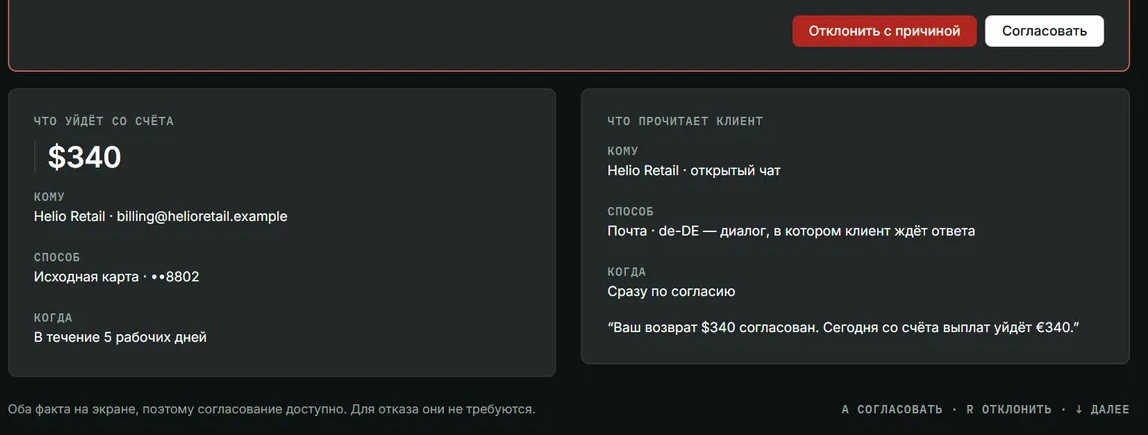
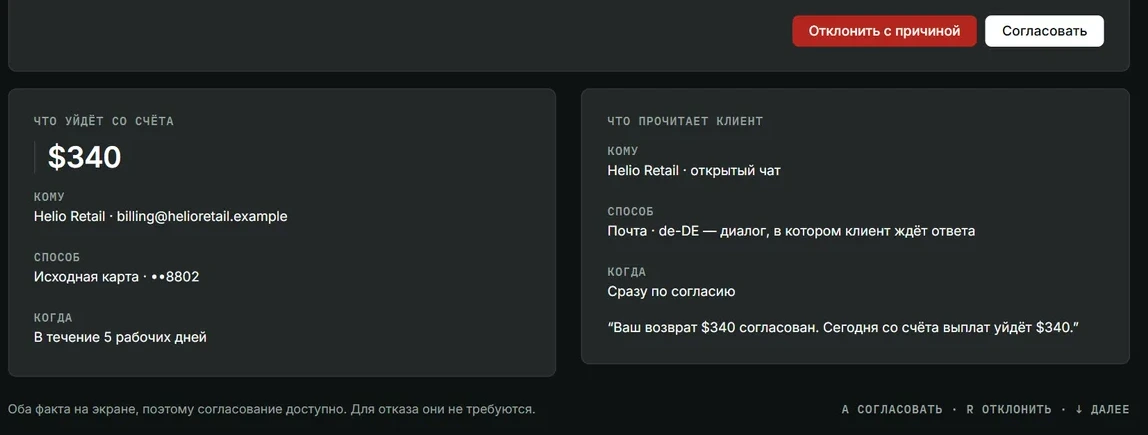
feat(cases): Pawly as whole phones, Vet queue moment, previews on phones
- Pawly cover and case hero: one walk in three whole phones (status bar,
  screen, home bar) instead of a white card without device chrome; a single
  phone below bp-md. Built by scripts/build-secondary-covers.mjs.
- Vet preview: one readable fragment of the day queue instead of two
  shrunken screens.
- More-cases previews are visible on phones, full width above the title.
- Agent Ops hero reshot after the prototype fix: the consequence reads $340,
  no longer €340.

Changed region(s): [[0.0, 0.1494, 0.9756, 0.1793], [0.9756, 0.0, 1.0, 0.1494], [0.8841, 0.7172, 0.9451, 0.777]]

diff --git a/src/copy/case-visuals.ts b/src/copy/case-visuals.ts
@@ -5,6 +5,8 @@ export interface Artwork {
   images: string[];
   /** Phone-width crop of the same product moment; replaces the first image below bp-md. */
   mobile?: string;
+  /** One product moment centred on the canvas, instead of a layered composition. */
+  moment?: boolean;
   alt: string;
   caption?: string;
 }
@@ -60,32 +62,33 @@ const catalog = {
   },
   'vet-clinic': {
     folder: 'case-vet',
-    cover: ['cover/vet-day-queue.webp', 'visit-quick-trace-crop.webp'],
+    cover: ['cover/queue-moment.webp'],
     hero: ['visit-quick-trace-crop.webp'],
     en: {
-      cover: 'Vet Clinic: the veterinarian’s daily queue and a quick visit record.',
+      cover: 'Vet Clinic: today’s visits, with an emergency walk-in at the top of the queue and three records left open.',
       hero: 'Quick visit record: weight, medication and dose, with the draft saved and a short clinical note.',
       caption: 'A short record at the point of care: weight, medication, dose and a note. The full record remains a separate step. Fictional patient data.',
     },
     ru: {
-      cover: 'Ветклиника: очередь врача на день и быстрая запись визита.',
+      cover: 'Ветклиника: визиты на сегодня — экстренный пациент без записи первым в очереди, три записи не закрыты.',
       hero: 'Быстрая запись визита: вес, препарат, доза, сохранённый черновик и короткая заметка врача.',
       caption: 'Короткий след приёма: вес, препарат, доза и заметка. Полная карта остаётся отдельным шагом. Данные пациента вымышлены.',
     },
   },
   pawly: {
     folder: 'case-pawly',
-    cover: ['cover/return-confirmed.webp'],
-    hero: ['handover-photo-review.webp'],
+    cover: ['cover/story.webp'],
+    hero: ['cover/story.webp'],
+    heroMobile: 'cover/story-phone.webp',
     en: {
-      cover: 'Pawly: return confirmed at 14:52, with dated pickup and return photos in one report card.',
-      hero: 'Pawly return photo review: the full selected image remains local until the walker sends it and the demo confirms receipt.',
-      caption: 'A selected photo is not yet a confirmed return. The walker reviews the full image before sending. Local demo on invented data.',
+      cover: 'Pawly, one walk in three screens: the owner sees Baikal out for a walk, the walker checks the drop-off photo, the report confirms the return at 14:52.',
+      hero: 'Pawly, one walk in three screens: the owner sees who has Baikal and when to expect him home; the walker checks the drop-off photo before sending; the report confirms the return at 14:52 with both photos.',
+      caption: 'Before, during and after one walk. A selected photo is not yet a confirmed return: the walker reviews it before sending, and the report counts only what was received. Local demo on invented data.',
     },
     ru: {
-      cover: 'Pawly: возвращение подтверждено в 14:52; фотографии передачи и возвращения с датами в одной карточке отчёта.',
-      hero: 'Проверка фото возвращения в Pawly: полный выбранный кадр остаётся локальным до отправки и подтверждения в демо.',
-      caption: 'Выбранное фото ещё не подтверждает возвращение. Исполнитель проверяет полный кадр до отправки. Локальное демо на вымышленных данных.',
+      cover: 'Pawly, одна прогулка в трёх экранах: владелец видит, что Байкал на прогулке, исполнитель проверяет фото возвращения, отчёт подтверждает возврат в 14:52.',
+      hero: 'Pawly, одна прогулка в трёх экранах: владелец видит, с кем Байкал и когда его ждать; исполнитель проверяет фото возвращения до отправки; отчёт подтверждает возврат в 14:52 с обоими фото.',
+      caption: 'До, во время и после одной прогулки. Выбранное фото ещё не подтверждает возвращение: исполнитель проверяет его до отправки, а отчёт учитывает только полученное. Локальное демо на вымышленных данных.',
     },
   },
 } satisfies Record<CaseSlug, unknown>;
@@ -98,13 +101,21 @@ export function getCaseVisuals(slug: string, locale: Locale = 'en') {
   const copy = entry[locale];
   return {
     slug: key,
-    // Featured cases show one product moment at natural size, desktop and
-    // phone cropped separately (scripts/shoot-home-covers.mjs).
+    // Every cover is one product moment at a readable size; the featured
+    // three carry a separate phone crop (scripts/shoot-home-covers.mjs,
+    // scripts/build-secondary-covers.mjs).
     cover: {
       images: entry.cover.map((file) => `${root}/${file}`),
       mobile: 'mobile' in entry ? `${root}/${entry.mobile}` : undefined,
+      moment: true,
       alt: copy.cover,
     } satisfies Artwork,
-    hero: { images: entry.hero.map((file) => `${root}/${file}`), alt: copy.hero, caption: copy.caption } satisfies Artwork,
+    hero: {
+      images: entry.hero.map((file) => `${root}/${file}`),
+      mobile: 'heroMobile' in entry ? `${root}/${entry.heroMobile}` : undefined,
+      moment: 'heroMobile' in entry,
+      alt: copy.hero,
+      caption: copy.caption,
+    } satisfies Artwork,
   };
 }

diff --git a/ds/screens/case-presentation.md b/ds/screens/case-presentation.md
@@ -6,7 +6,7 @@
 
 Три FeaturedCase: Agent Ops → Partner Portal → TRASSIR Learn. Сначала номер, название и исход; затем CaseArtwork; ниже год, доказательный статус и CTA. Полные роль, платформа и описание продукта остаются на странице кейса. Все формулировки доказательности сохраняются. Между карточками section-gap, внутри flow-text/node.
 
-Далее нативный details/summary «Показать ещё 2 кейса» / «Show 2 more cases»: Vet Clinic и Pawly компактными ссылками с превью, названием, исходом и статусом. Без отдельной страницы. Состояние раскрытия сохраняется в текущей вкладке при возврате из кейса. Нативная клавиатура, видимый focus, без JS раскрытие продолжает работать. Никакой анимации высоты. ScrollTrigger пересчитывает следующие секции после toggle. После списка сразу Webflow и «Как я работаю».
+Далее нативный details/summary «Показать ещё 2 кейса» / «Show 2 more cases»: Vet Clinic и Pawly компактными ссылками с превью, названием, исходом и статусом. Без отдельной страницы. Состояние раскрытия сохраняется в текущей вкладке при возврате из кейса. Нативная клавиатура, видимый focus, без JS раскрытие продолжает работать. Никакой анимации высоты. **25.09.2026:** превью строки видно и на телефоне — во всю ширину над названием (раньше ниже `bp-md` было скрыто, и строки оставались без картинки). ScrollTrigger пересчитывает следующие секции после toggle. После списка сразу Webflow и «Как я работаю».
 
 ## Композиции
 
